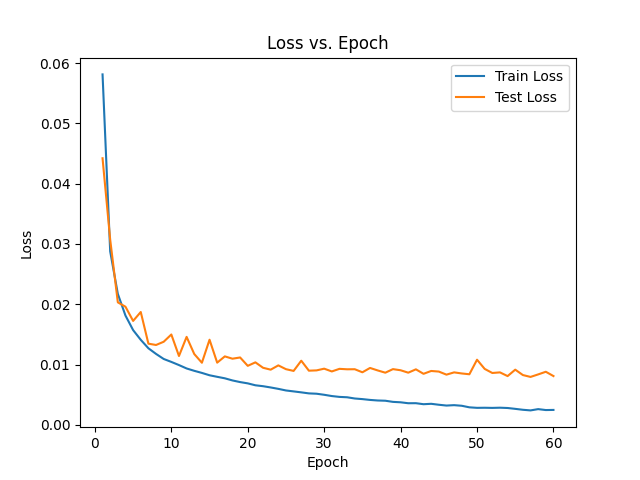
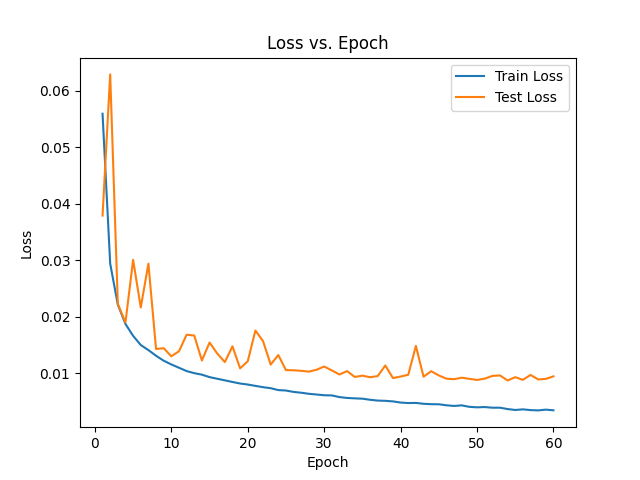
ported over python version of running chess game

diff --git a/python_version/bot_player.py b/python_version/bot_player.py
@@ -1,0 +1,257 @@
+import chess
+import chess.polyglot
+import random
+import numpy as np
+import torch
+import torch.nn as nn
+import math
+import time
+from math import log10
+
+
+class SE_Block(nn.Module):
+    def __init__(self, filters, se_channels):
+        super().__init__()
+        self.filters = filters
+        self.avg_pool = nn.AdaptiveAvgPool2d(1)
+        self.fc = nn.Sequential(
+            nn.Linear(filters, se_channels),
+            nn.ReLU(inplace=True),
+            nn.Linear(se_channels, 2*filters),
+        )
+
+    def forward(self, x):
+        b, c, _, _ = x.size()
+        y = self.avg_pool(x).view(b, c)
+        y = self.fc(y).view(b, 2*c, 1, 1)
+        w = y[:, 0:self.filters, :, :]
+        b = y[:, self.filters:2*self.filters, :, :]
+        w = torch.sigmoid(w)
+        return x * w.expand_as(x) + b.expand_as(x)
+
+class ResidualBlock(nn.Module):
+    def __init__(self, filters, se_channels):
+        super().__init__()
+        self.conv1 = nn.Conv2d(filters, filters, 3, padding=1, stride=1)
+        self.bn1 = nn.BatchNorm2d(filters)
+        self.conv2 = nn.Conv2d(filters, filters, 3, padding=1, stride=1)
+        self.bn2 = nn.BatchNorm2d(filters)
+        self.se = SE_Block(filters, se_channels)
+    
+    def forward(self, x):
+        out = self.conv1(x)
+        out = self.bn1(out)
+        out = self.conv2(out)
+        out = self.bn2(out)
+        out = self.se(out)
+        out = out + x
+        out = torch.relu(out)
+        return out
+
+class CarissaNet(nn.Module):
+    def __init__(self, blocks=20, filters=256, se_channels=32):
+        super().__init__()
+        self.conv1 = nn.Conv2d(29, filters, 3, padding=1, stride=1)
+        self.bn1 = nn.BatchNorm2d(filters)
+        
+        self.residual_blocks = nn.ModuleList([ResidualBlock(filters, se_channels) for _ in range(blocks)])
+
+        self.conv2 = nn.Conv2d(filters, 32, 3, padding=1, stride=1)
+        self.bn2 = nn.BatchNorm2d(32)
+        self.fc = nn.Sequential(
+            nn.Linear(32*8*8, 128),
+            nn.ReLU(inplace=True),
+            nn.Linear(128, 1),
+            nn.Tanh()
+        )
+
+    def forward(self, x):
+        out = self.conv1(x)
+        out = self.bn1(out)
+
+        for block in self.residual_blocks:
+            out = block(out)
+
+        out = self.conv2(out)
+        out = self.bn2(out)
+        out = out.reshape((out.size()[0], -1))
+        out = self.fc(out)
+        return out
+
+def pawn_advantage_to_prob(adv):
+    if adv < -1000:
+        return 0
+    return 1/(1+10**(adv/(-4)))
+
+def prob_to_pawn_advantage(prob):
+    if prob < 1e-10:
+        return -100000
+    if prob > 1-1e-10:
+        return 100000
+    return 4*log10(prob/(1-prob))
+
+piece_to_layer = {
+    'R': 1,
+    'N': 2,
+    'B': 3,
+    'Q': 4,
+    'K': 5,
+    'P': 6,
+    'p': 7,
+    'k': 8,
+    'q': 9,
+    'b': 10,
+    'n': 11,
+    'r': 12
+}
+
+def convert_to_bitboard(fen):
+    boards = np.zeros((29,8,8), dtype=np.uint8)
+
+    board = chess.Board(fen)
+    turn_color = board.turn
+
+    cr = board.castling_rights
+    wkcastle = bool(cr & chess.BB_H1)
+    wqcastle = bool(cr & chess.BB_A1)
+    bkcastle = bool(cr & chess.BB_H8)
+    bqcastle = bool(cr & chess.BB_A8)
+
+    boards[0, :, :] = turn_color
+    boards[25, :, :] = wkcastle
+    boards[26, :, :] = wqcastle
+    boards[27, :, :] = bkcastle
+    boards[28, :, :] = bqcastle
+
+    piece_map = board.piece_map()
+    for i, p in piece_map.items():
+        rank, file = divmod(i,8)
+        layer = piece_to_layer[p.symbol()]
+        boards[layer, rank, file] = 1
+
+        for sq in board.attacks(i):
+            attack_rank, attack_file = divmod(sq,8)
+            boards[layer+12, attack_rank, attack_file] += 1 # could experiment with = 1 instead of += 1
+
+    # print(piece_map)
+
+    # print(list(boards))
+
+    return np.array(boards)
+
+# piece_to_material = {
+#     'R': 5,
+#     'N': 3,
+#     'B': 3,
+#     'Q': 9,
+#     'K': 0,
+#     'P': 1,
+#     'p': -1,
+#     'k': 0,
+#     'q': -9,
+#     'b': -3,
+#     'n': -3,
+#     'r': -5
+# }
+
+# should carry material eval down the tree
+
+# def material_eval(board):
+#     pieces = board.piece_map()
+#     return sum([piece_to_material[piece.symbol()] for piece in pieces.values()])
+
+model = CarissaNet(blocks=10, filters=128)
+
+sdict = torch.load('../model/model_40.pt', map_location='cpu')
+for key in list(sdict.keys()):
+    if key.startswith("module."):
+        sdict[key[7:]] = sdict.pop(key)
+
+model.load_state_dict(sdict)
+
+if torch.cuda.is_available():
+    model = model.cuda()
+
+model.eval()
+
+def predict_model(board):
+    if board.is_stalemate() or board.is_seventyfive_moves() or board.is_insufficient_material() or board.is_fivefold_repetition():
+        return 0
+    
+    if board.is_checkmate():
+        if board.turn == chess.WHITE:
+            return 1e10
+        else:
+            return -1e10
+
+    encoding = convert_to_bitboard(board.fen())
+    with torch.no_grad():
+        encoding = torch.Tensor(encoding)
+        if torch.cuda.is_available():
+            encoding = encoding.cuda()
+        output = model(torch.unsqueeze(encoding, dim=0))
+        # print(output.item(), convert_to_pawn_advantage(output.item()))
+    
+
+    return output.item()
+
+def tree_search(board, depth, alpha, beta, maximizing_player):
+    if depth == 0 or board.is_game_over():
+        return predict_model(board)
+
+    if maximizing_player:
+        value = -1000000
+        for move in board.legal_moves:
+            board.push(move)
+            value = max(value, tree_search(board, depth-1, alpha, beta, False))
+            board.pop()
+            alpha = max(alpha, value)
+            if beta <= alpha:
+                break
+        return value
+    else:
+        value = 1000000
+        for move in board.legal_moves:
+            board.push(move)
+            value = min(value, tree_search(board, depth-1, alpha, beta, True))
+            board.pop()
+            beta = min(beta, value)
+            if beta <= alpha:
+                break
+        return value
+
+class BotPlayer:
+    def __init__(self, color):
+        self.color = color
+
+    def get_move(self, board):
+        opening_books = ['vitamin17','Human','Titans','baron30']
+
+        for book in opening_books:
+            with chess.polyglot.open_reader(f'data/{book}.bin') as reader:
+                board_hash = chess.polyglot.zobrist_hash(board)
+                if reader.get(board_hash) is not None:
+                    print(f'Found in {book} book.')
+                    return reader.weighted_choice(board_hash).move
+
+        print('Computing move.')
+
+        depth = 1
+        best_value = 1000000
+        for move in board.legal_moves:
+            board.push(move)
+            value = tree_search(board, depth, -1000000, 1000000, True)
+            board.pop()
+            # print(move, 100*prob_to_pawn_advantage(value))
+
+            if value < best_value:
+                best_value = value
+                best_move = move
+                
+        print(best_move, best_value)
+        return best_move
+
+if __name__ == '__main__':
+    board = chess.Board('2q3k1/p2n1ppp/4pn2/1pb5/4PB2/P2N1PP1/1PrN3P/2R2QK1 w - - 4 26')
+    a1 = time.time()
+    print(predict_model(board))

diff --git a/python_version/chess_game.py b/python_version/chess_game.py
@@ -1,0 +1,34 @@
+import chess
+import chess.svg
+
+from human_player import HumanPlayer
+from bot_player import BotPlayer
+
+if __name__ == "__main__":
+    board = chess.Board()
+    player1 = HumanPlayer(chess.WHITE)
+    player2 = BotPlayer(chess.BLACK)
+    while True:
+        if board.is_checkmate():
+            if board_turn == chess.WHITE:
+                print("Game Over! Black Wins.")
+            else:
+                print("Game Over! White Wins.")
+            break
+
+        if (board.is_stalemate() or board.is_insufficient_material() or board.is_seventyfive_moves()):
+            print("Draw.")
+            break
+
+        if board.turn == chess.WHITE:
+            player_move = player1.get_move(board)
+        else:
+            player_move = player2.get_move(board)
+        board.push(player_move)
+
+        # write_path = 'current_board.svg'
+        # with open(write_path, 'w') as f:
+        #     f.write(chess.svg.board(board, size=350))
+        print(board)
+        print(player_move)
+        print(board.fen())

diff --git a/model/train.py b/model/train.py
@@ -25,7 +25,7 @@ train_loader = torch.utils.data.DataLoader(data_train, batch_size=2048, shuffle=
 test_loader = torch.utils.data.DataLoader(data_test, batch_size=2048, shuffle=True)
 
 if not fast:
-    model = torch.nn.DataParallel(CarissaNet(input_channels=29, blocks=10, filters=128))
+    model = torch.nn.DataParallel(CarissaNet(input_channels=29, blocks=6, filters=50))
 else:
     model = torch.nn.DataParallel(CarissaNet(input_channels=25, blocks=10, filters=128))
 
@@ -70,7 +70,7 @@ for epoch in range(1, 61):
         test_losses.append(avg_loss)
 
     if epoch % 5 == 0:
-        torch.save(model.state_dict(), f'model_111421_{epoch}.pt')
+        torch.save(model.state_dict(), f'model_111621_6x50_{epoch}.pt')
 
 x = list(range(1, 61))
 
@@ -80,4 +80,4 @@ plt.xlabel('Epoch')
 plt.ylabel('Loss')
 plt.title('Loss vs. Epoch')
 plt.legend()
-plt.savefig('loss_plot_111421.png')
+plt.savefig('loss_plot_111621_6x50.png')

diff --git a/python_version/human_player.py b/python_version/human_player.py
@@ -1,0 +1,18 @@
+import chess
+
+class HumanPlayer():
+    def __init__(self, color):
+        self.color = color
+
+    def get_move(self, board):
+        while True:
+            move = input("Enter move in SAN notation: ")
+            try:
+                board.parse_san(move)
+            except:
+                print("Invalid Move. Try Again")
+                continue
+            break
+
+        return board.parse_san(move)
+

diff --git a/model/model.py b/model/model.py
@@ -80,6 +80,6 @@ if __name__ == '__main__':
             pp += nn
         return pp
 
-    net = CarissaNet(blocks=10, filters=128, se_channels=32)
+    net = CarissaNet(blocks=6, filters=50, se_channels=32)
     print(net)
     print(get_n_params(net))
